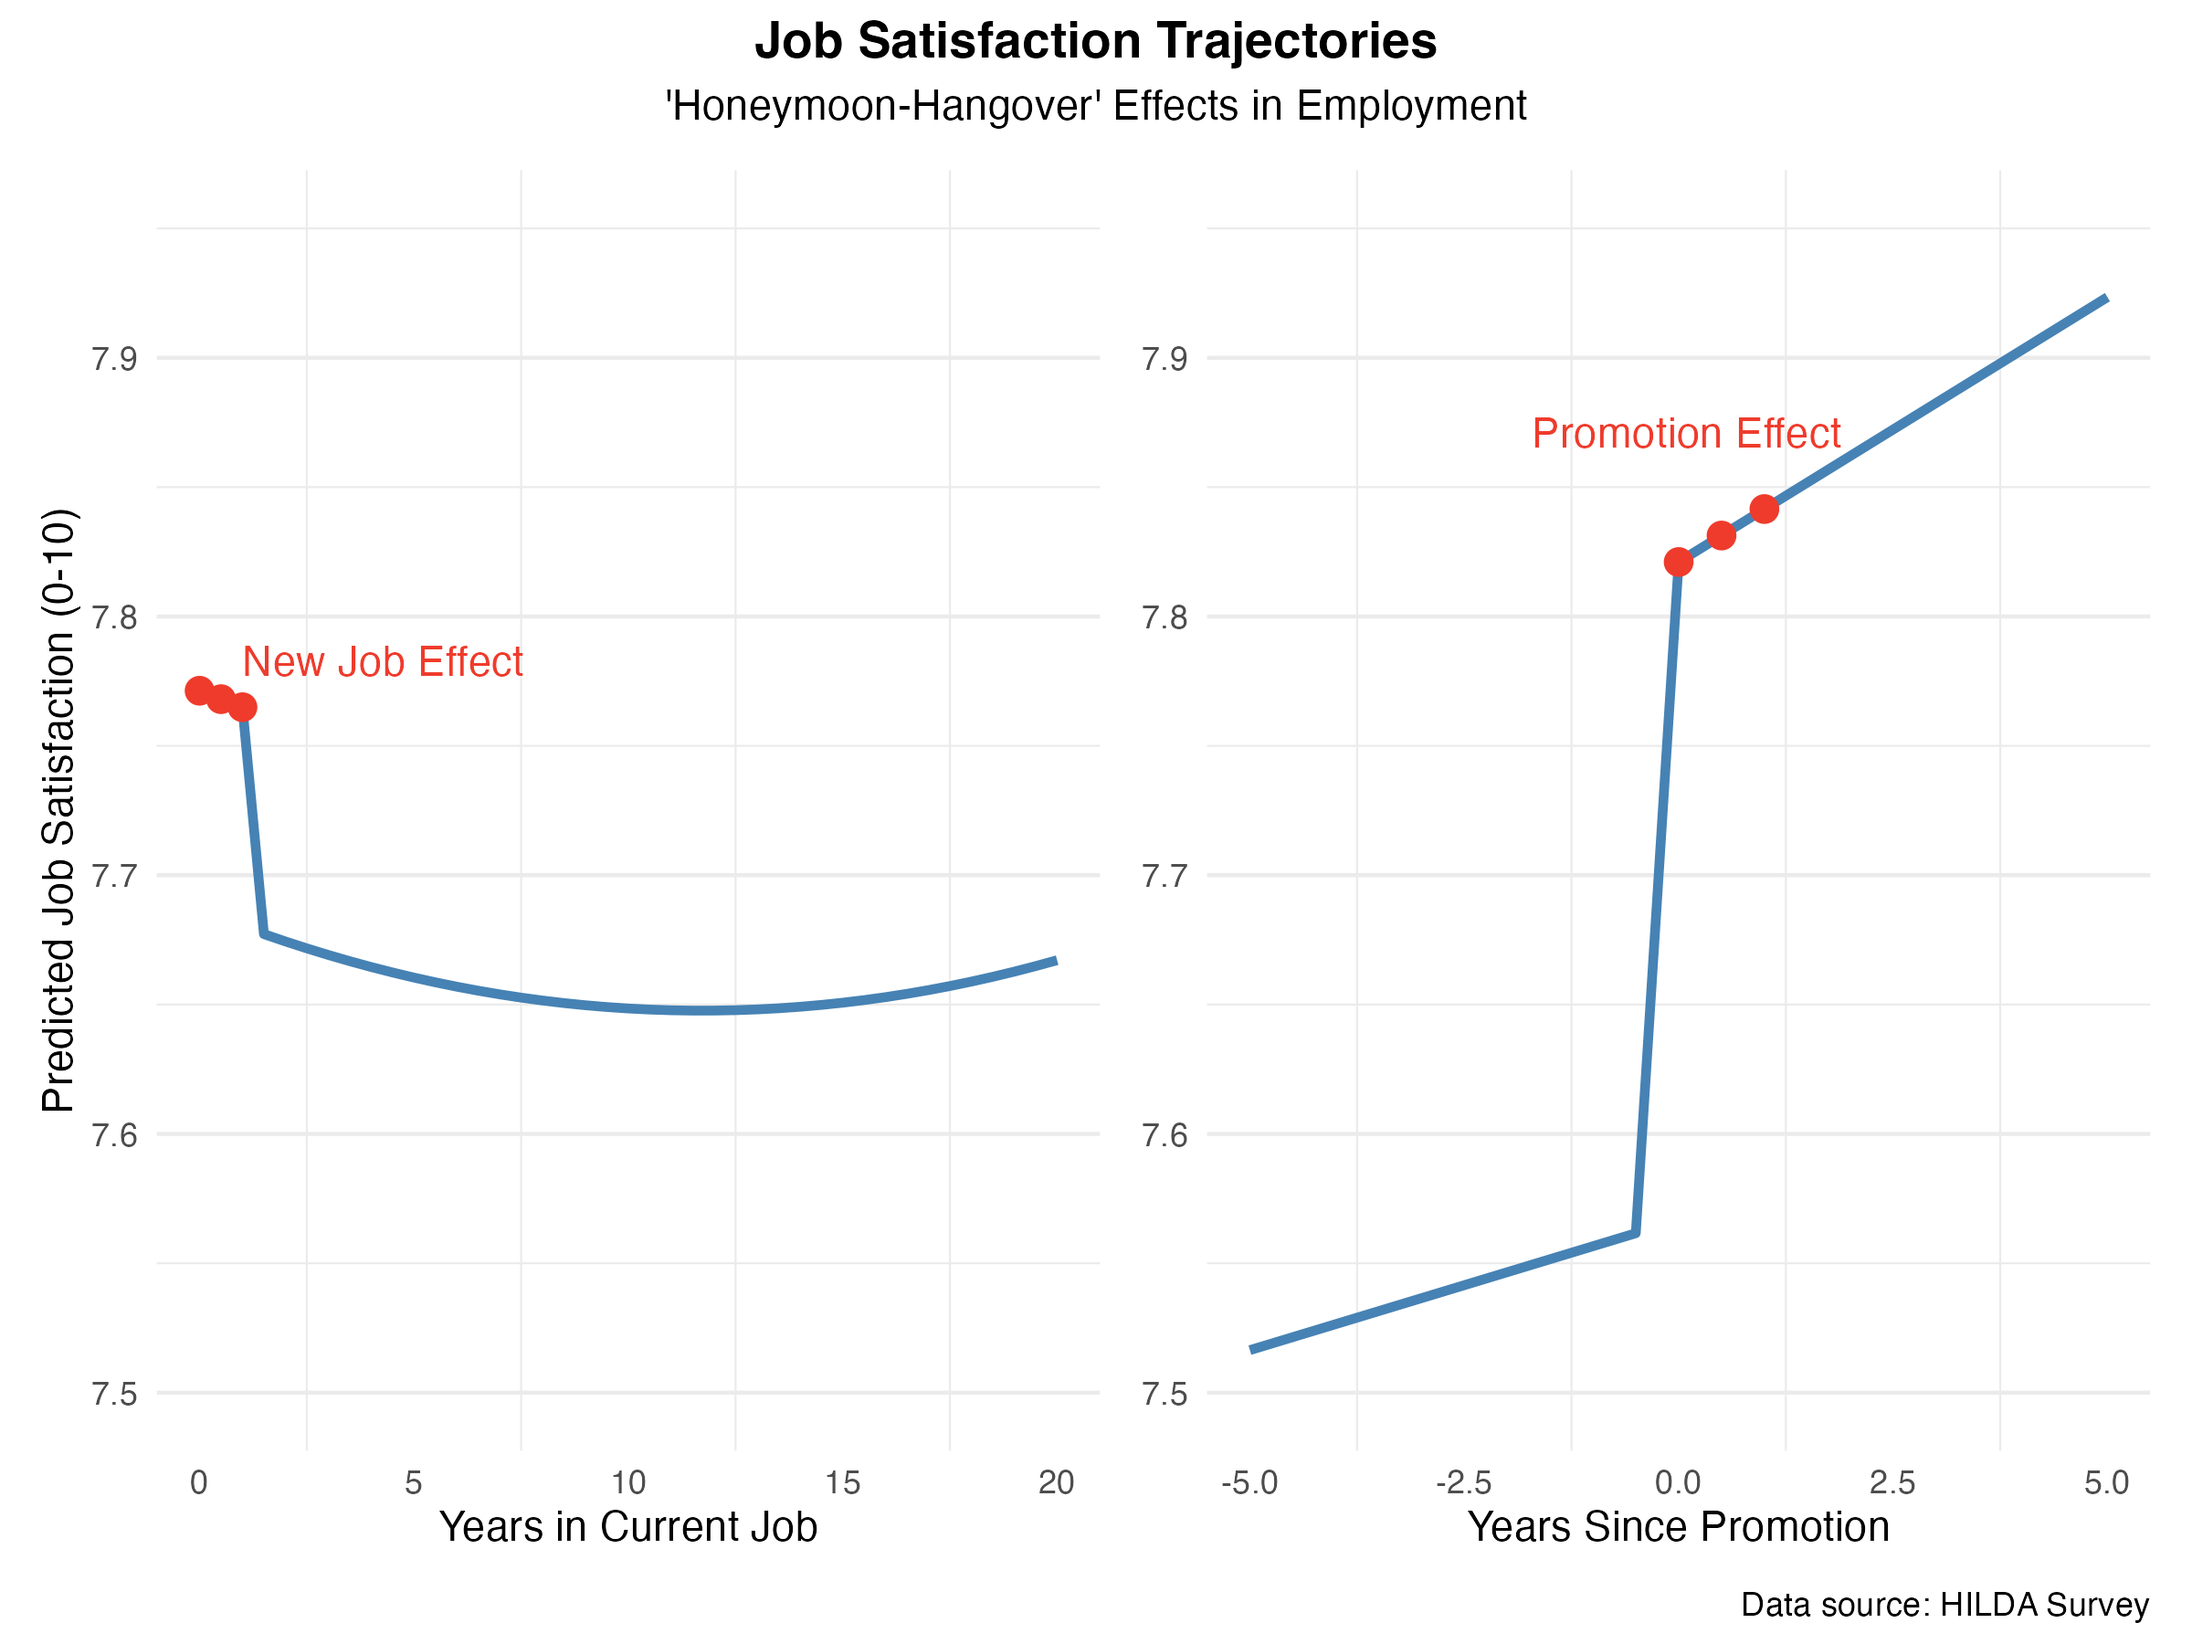
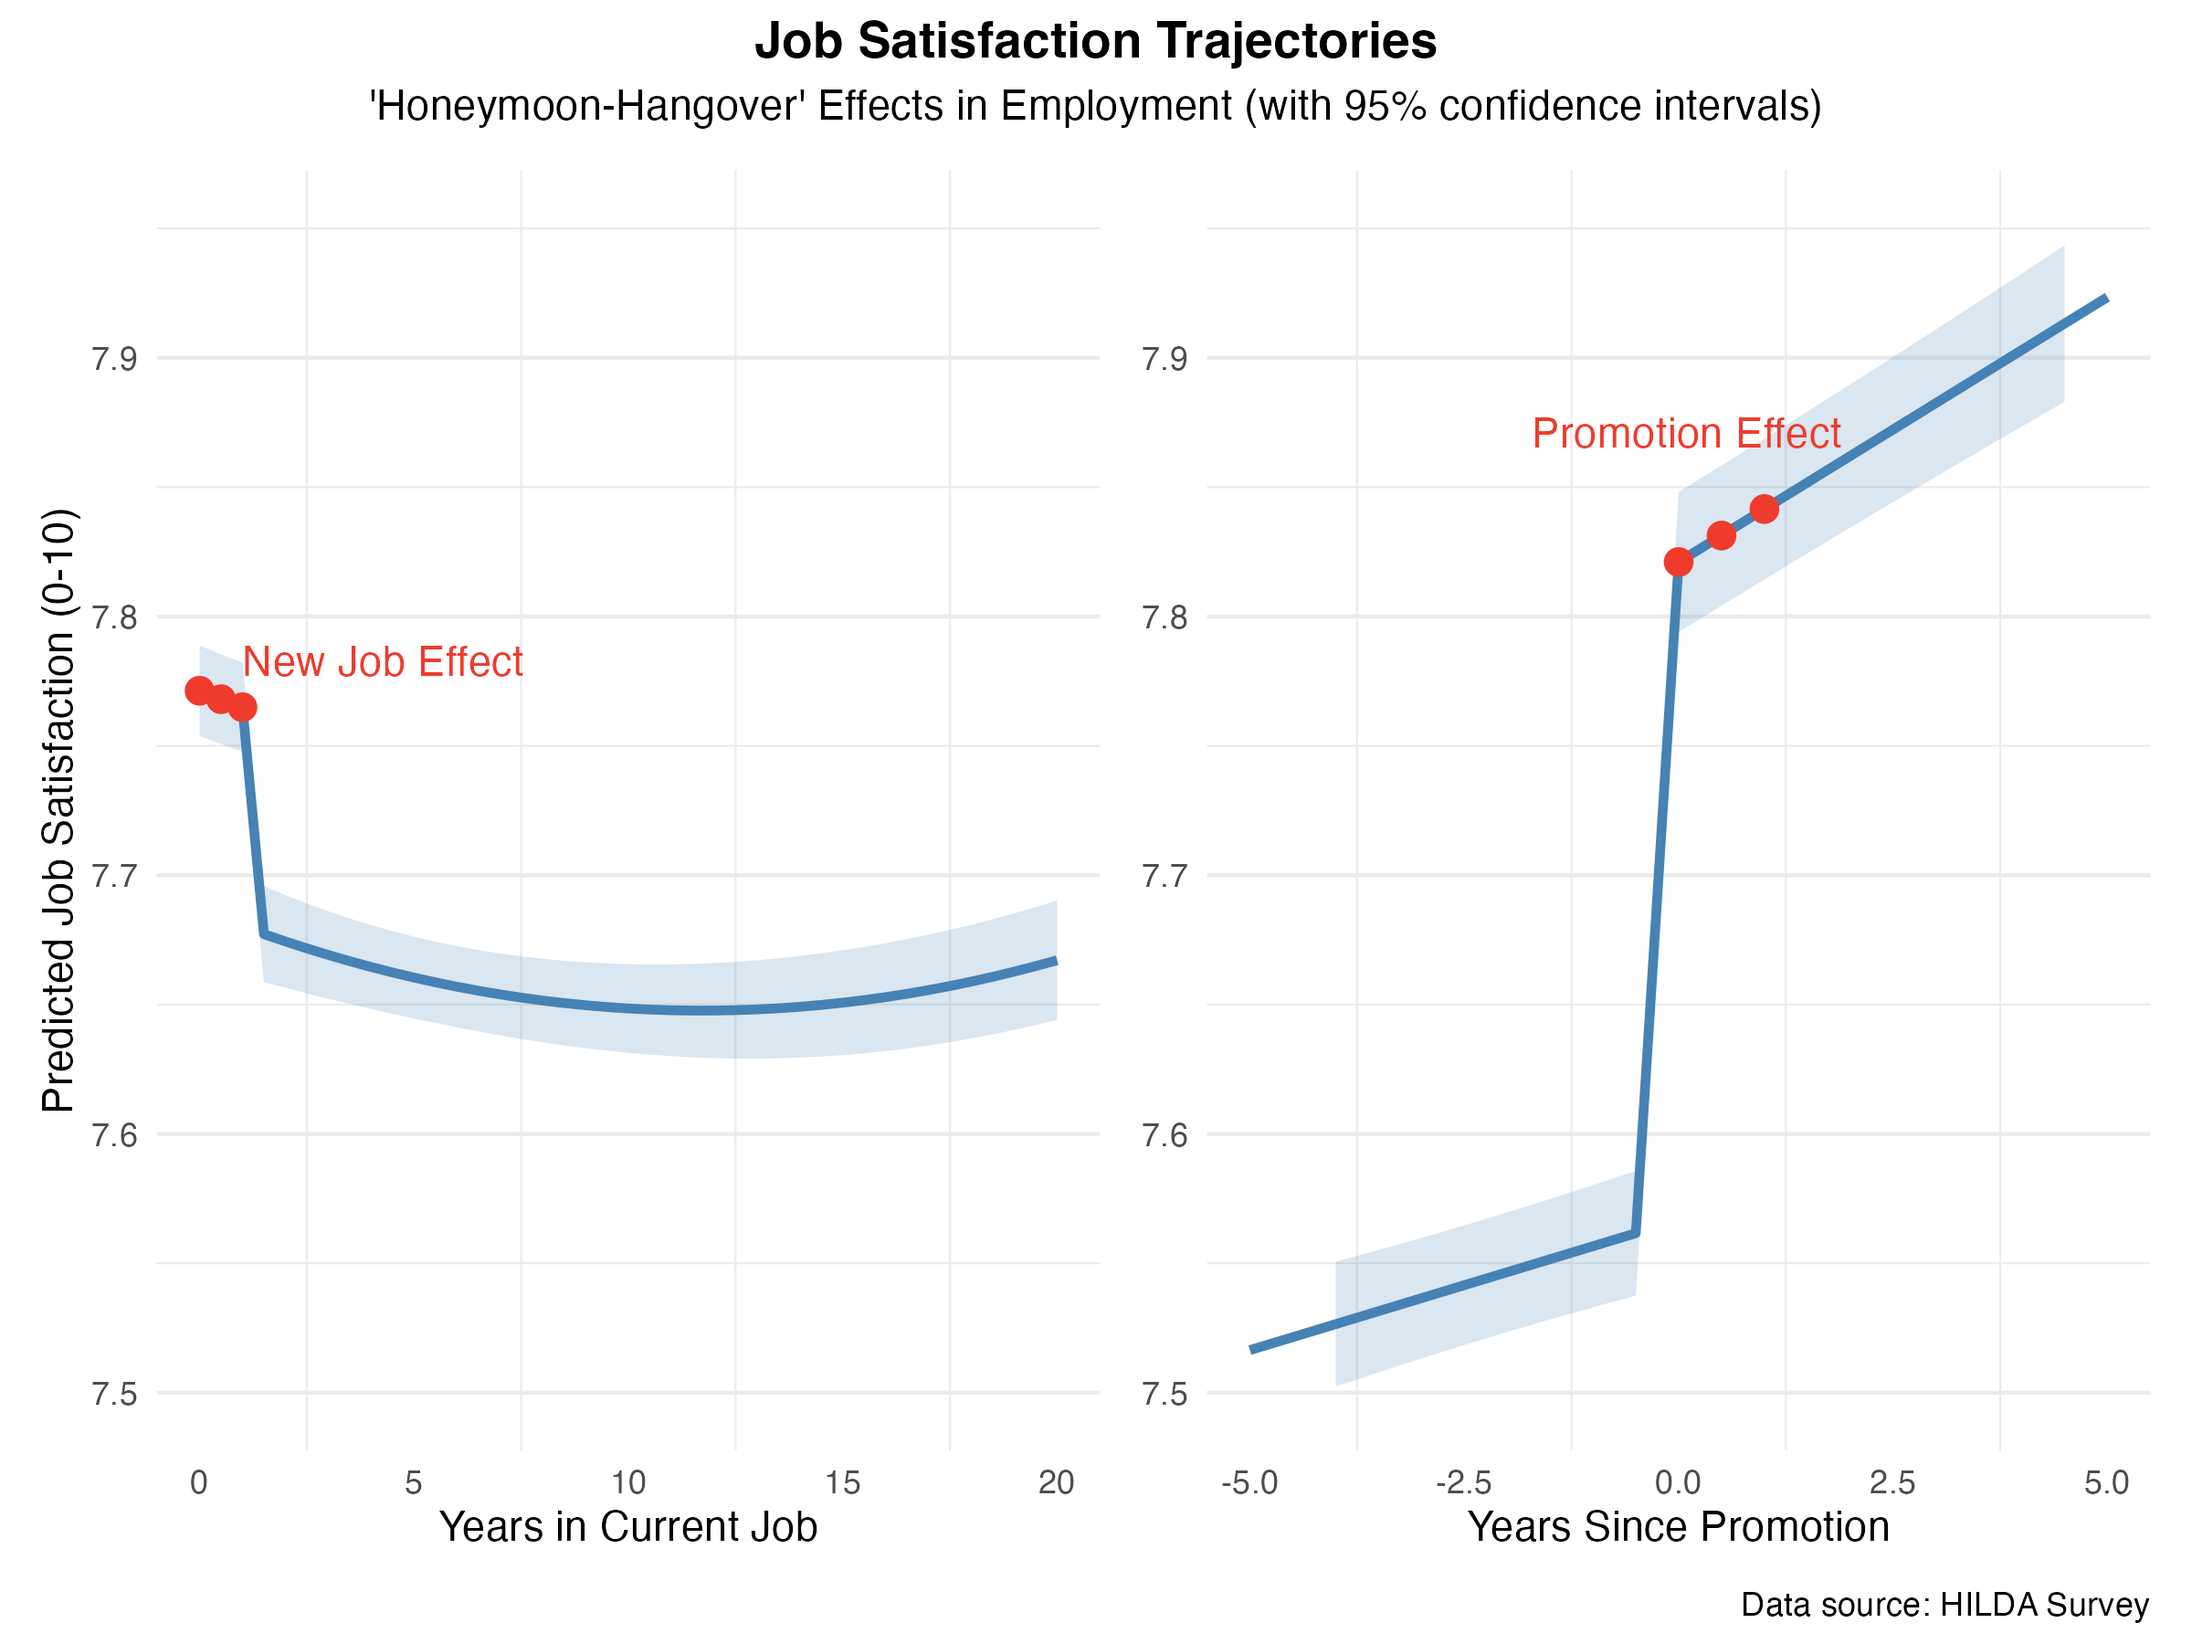
Draft blog post 7

diff --git a/_posts/2025-05-05-job-satisfaction-over-time.md b/_posts/2025-05-05-job-satisfaction-over-time.md
@@ -1,0 +1,72 @@
+---
+layout: single
+toc: true
+title: "From Honeymoon to Hangover: How Does Job Satisfaction Evolve Over Time?"
+date: 2025-05-05
+categories:
+  - Blog
+tags:
+  - Job Satisfaction
+  - Employee Engagement
+  - Career Progression
+  - Talent Retention
+  - Promotion Effects
+  - People Analytics
+  - HILDA Survey
+header:
+  teaser: /assets/images/7_satisfaction_trajectories_plot.png
+  og_image: /assets/images/7_satisfaction_trajectories_plot.png
+output: 
+  md_document:
+    variant: gfm
+    preserve_yaml: true
+    
+---
+
+<style>
+  body {
+    font-size: 0.8em; /* Adjust font size just for this page */
+  }
+</style>
+
+# From Honeymoon to Hangover: How Job Satisfaction Evolves Over Time
+
+Ever noticed how a colleague starts a new job brimming with enthusiasm, only to seem a bit less excited a year later? That burst of initial happiness – and the gradual fade that often follows – is so common it has a name in organisational psychology: the "honeymoon-hangover" effect. In plain terms, many employees feel a surge of satisfaction when they start a new role (the honeymoon), which then cools off over time (the hangover). At the same time, there's another powerful event that can reinvigorate an employee's morale: a promotion. In this post, we look at how job satisfaction changes with tenure and promotions, using data from a representative sample of full-time workers in Australia. The insights reveal clear patterns in the employee experience lifecycle – and offer practical tips for HR and leaders to keep the "honeymoon" alive longer and avoid the "hangover".
+
+## The Honeymoon-Hangover Curve: What the Data Show
+
+We tapped into two decades of HILDA Survey data (Household, Income and Labour Dynamics in Australia) which has tracked job satisfaction over time for more than 17,000 Australian full-time workers since 2001. In this survey, participants rate their job satisfaction from 0 (totally dissatisfied) to 10 (totally satisfied) each year. We used a discontinuous mixed-effects model to follow individuals' satisfaction over time and isolate the effects of two key transitions: moving beyond the first year of employment and receiving a promotion. This approach shows us the *average* job satisfaction trajectory as employees stay longer in a role or move up in their organisation, as well as the job satisfaction trajectory that follows these transitions, while accounting for differences between people.
+
+The figure below shows the predicted trajectories generated by our model after being applied to the data. The horizontal axis shows the tenure with the organisation (in years) while the vertical axis shows the average job satisfaction rating. When an employee starts a new job, there is usually an immediate lift in how happy they feel at work (left panel, "New Job Effect"). Our model finds that in the first year of a new role, average job satisfaction is about **7.7 out of 10**, which is a noticeable bump above the baseline. This is the honeymoon effect – the novelty, optimism, and fresh challenges of a new position make people feel more satisfied.
+
+![](/assets/images/7_satisfaction_trajectories_plot.png)
+
+After about 12–18 months in the job, many employees hit a satisfaction slump – our data shows scores dipping roughly 0.1 points once the first year is over. Over the next few years, satisfaction continues to decline slowly, and by around year 4 or 5 it's essentially back to the mid-7s. This creeping decline is the hangover effect: as employees become fully acquainted with their job (including its frustrations and boring bits), the early excitement wears off. These are small effects, but they're statistically reliable. And while some individuals may show even weaker effects, these patterns might be more pronounced for many employees.
+
+Our analysis also indicates slight uptick for those extremely long-tenured (15+ years). This may be a selection effect: individuals who are dissatisfied will tend to leave the organisation, whereas those staying with an organisation this long are likely fairly satisfied. 
+
+For HR, the message is clear: the post-honeymoon hangover is predictable. Smart organisations should anticipate when the shine is likely to wear off and have a plan to rekindle engagement at that point, before employees get itchy feet.
+
+## The Promotion Effect: A Breath of Fresh Air
+
+If starting a new job gives a honeymoon boost, what about moving up within an organisation? Promotions are typically cause for celebration – a validation of hard work and a source of new challenge. Our findings show that promotions deliver a significant lift in job satisfaction for employees, effectively creating a new "honeymoon" of their own (right panel, "Promotion Effect"). The year an employee is promoted, their satisfaction rating jumps by about 0.25 points** on the 0–10 scale.
+
+Better yet, the boost is sustained. Unlike a new-job honeymoon that eventually dips, after a promotion satisfaction keeps rising for the next few years. Even five years later, the typical promoted employee is still about 0.3 points more satisfied than they likely would be without that promotion. In other words, a promotion isn't just a fleeting high; it marks the start of a renewed growth cycle in satisfaction.
+
+## Practical Implications for HR and Leadership
+
+Understanding these satisfaction patterns has real implications for managing and retaining talent. Here are some key takeaways and strategies for HR leaders and managers:
+
+* **Expect the Slump:** It's normal for enthusiasm to taper off after the first year or two. Don't panic if a star hire's satisfaction dips by year 3 – but do monitor their sentiment (surveys, check-ins) around that time so you can tackle any issues early.
+* **Re-energise at 12–18 Months:** Plan a boost around the one-year mark. Refresh the role with new challenges or learning opportunities** – for example, a special project, added responsibilities, or training. Injecting some novelty at this stage prevents boredom and extends the honeymoon vibe.
+* **Leverage Internal Mobility:** Offer pathways for internal moves or promotions to combat mid-tenure malaise. Instead of waiting for employees to seek excitement elsewhere, give them chances to try new roles or step up within the company. Even a lateral move or modest promotion can reignite passion and reset their satisfaction trajectory.
+
+From a big-picture perspective, these findings highlight the importance of **career progression and thoughtful people management**. If you leave employees in a static situation, expect their satisfaction to stagnate or decline. But if you can offer growth – whether via promotions, new assignments, or skill development – you effectively give them a fresh honeymoon phase and keep them engaged longer with your organisation.
+
+## Next Steps
+
+Is your organisation proactively managing the honeymoon-hangover effect? Consider implementing regular check-ins at the 12-18 month mark when satisfaction typically dips. Track satisfaction trends across tenure groups to identify when your employees might need fresh challenges or growth opportunities. Monitoring satisfaction after promotions can also reveal whether these advancements are delivering lasting engagement benefits.
+
+Want to leverage these satisfaction patterns to improve retention? I specialise in analysing employee experience data to develop targeted intervention strategies that maintain engagement throughout the employee lifecycle.
+
+[Get in touch](mailto:t.ballard@uq.edu.au) to discuss how we can apply these analytical approaches to your organisation's unique engagement challenges.
